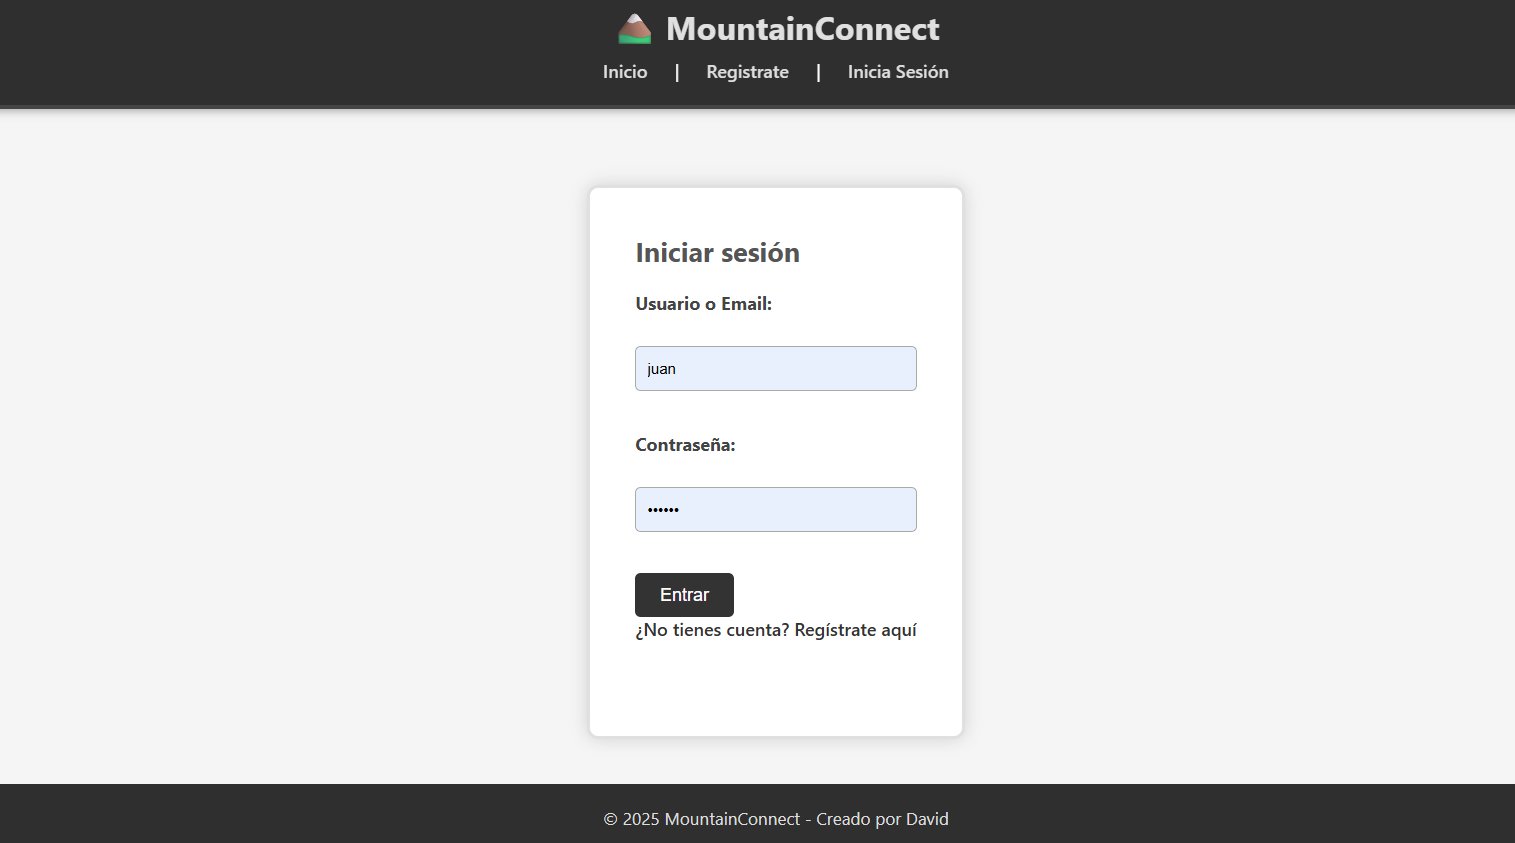
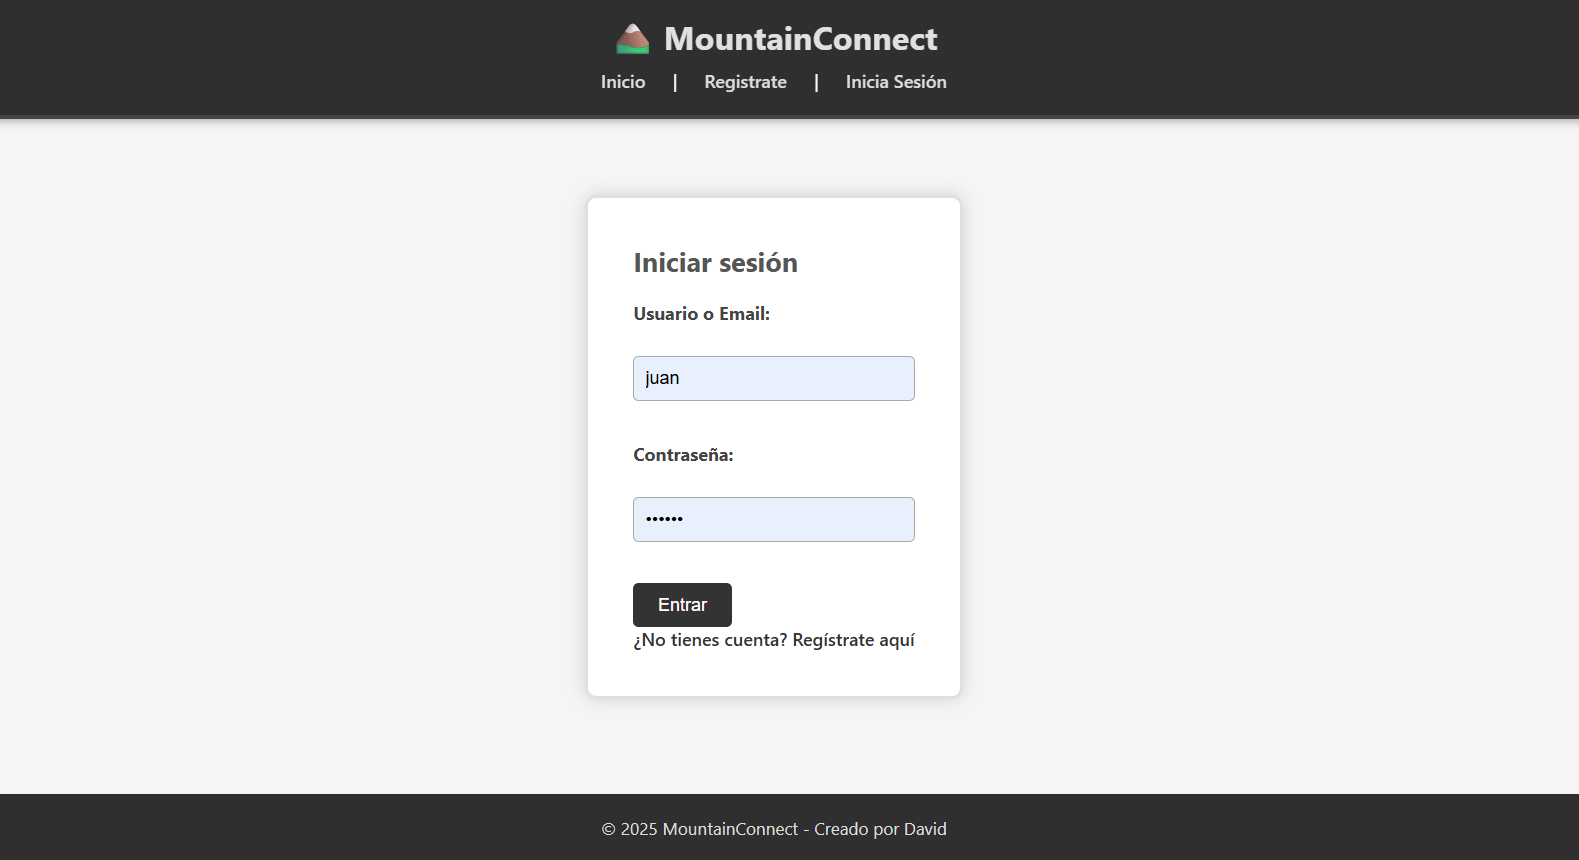
PROYECTO TERMINADO

diff --git a/assets/css/style.css b/assets/css/style.css
@@ -81,7 +81,8 @@ body {
 }
 
 main, section {
-  flex: 1;
+  /*flex: 1;*/
+  width: fit-content;
   max-width: 900px;
   margin: 40px auto;
   background-color: #fff;
@@ -89,9 +90,6 @@ main, section {
   border-radius: 10px;
   box-shadow: 0 0 15px rgba(0,0,0,0.15);
   border: 3px solid #e0e0e0;
-  justify-content: flex-end;
-  height: 100vh;
-  flex-direction: column; 
 }
 
 /* ==============================
@@ -291,16 +289,6 @@ a.boton-enlace:hover {
   margin: 4px 0;
 }
 
-/* =====================================
-   PERFIL DE USUARIO
-   ===================================== */
-
-.profile-logout {
-  display: flex;
-  flex-direction: column; /* organiza en columna */
-  justify-content: flex-end; /* empuja el contenido hacia abajo */
-  height: 70%; 
-}
 
 /* =====================================
    NOMBRE USUARIO EN HEADER

diff --git a/public/index.php b/public/index.php
@@ -9,6 +9,8 @@ include("../includes/header.php");
 
     <?php if (isset($_SESSION["usuario"])): ?>
         <p>Hola, <strong><?php echo htmlspecialchars($_SESSION["usuario"]["username"]); ?></strong> 👋</p>
+        <p>Enhorabuena ahora puedes ver las <a href="/mountain-connect/public/routes/list.php">rutas</a> de los compañeros <br>También puedes <a href="/mountain-connect/public/routes/create.php">crear</a> las tuyas propias</p>
+        <br>
         <p>Puedes ir a tu <a href="/mountain-connect/public/profile.php">perfil</a> o <a href="/mountain-connect/public/logout.php">cerrar sesión</a>.</p>
     <?php else: ?>
         <p>Bienvenido visitante 👋</p>

diff --git a/public/profile.php b/public/profile.php
@@ -9,8 +9,9 @@ $usuario = $_SESSION["usuario"];
 
 <main id="contenido-principal">
     <h2>Perfil de <?php echo htmlspecialchars($usuario["username"]); ?></h2>
-    <p><strong>Email:</strong> <?php echo htmlspecialchars($usuario["email"]); ?></p>
     <p>Bienvenido a tu perfil, <?php echo htmlspecialchars($usuario["username"]); ?> 👋</p>
+    <p><strong>Email:</strong> <?php echo htmlspecialchars($usuario["email"]); ?></p>
+    <br><br><br>
 
     <p id="profile" class="profile-logout">
         <a href="/mountain-connect/public/logout.php">Cerrar sesión</a>

diff --git a/README.md b/README.md
@@ -142,69 +142,18 @@ Inicio de Sesión
 ![Iniciar Sesion](README/iniciar-sesion.png)
 
 Perfil de usuario
+![Perfil](README/perfil.png)
 
-CRUD de rutas
+Crear rutas
+![Crear Ruta](README/crear-ruta.png)
+
+Ver rutas
+![Lista de Rutas](README/lista-rutas.png)
 
 
-(Sustituye los enlaces con tus capturas reales antes de subir a GitHub)
-
-🚀 Subir Proyecto a GitHub
-Inicializa Git en tu proyecto:
-
-bash
-Copiar código
-git init
-git remote add origin https://github.com/dav516/mountain-connect.git
-Crear .gitignore para ignorar archivos innecesarios:
-
-bash
-Copiar código
-/vendor/
-/node_modules/
-*.log
-*.env
-/uploads/
-Agrega y haz commit:
-
-bash
-Copiar código
-git add .
-git commit -m "Primer commit: estructura inicial del proyecto MountainConnect"
-Subir al repositorio remoto:
-
-bash
-Copiar código
-git branch -M main
-git push -u origin main
-⚠ Si aparece el warning LF will be replaced by CRLF, configura Git:
-
-bash
-Copiar código
-git config --global core.autocrlf true
-📝 Criterios de Evaluación
-Correcta organización de carpetas y archivos
-
-Formularios funcionales con validación
-
-Gestión de sesiones (login/logout)
-
-Subida de archivos validada
-
-Código limpio y reutilizable
-
-Mensajes claros y experiencia de usuario adecuada
-
-🤝 Autor
+## 🤝 Autor
 David Ultra Rey – dav516
 
-📜 Licencia
+## 📜 Licencia
 Este proyecto es para fines educativos. No tiene licencia comercial.
 
-yaml
-Copiar código
-
----
-
-Si quieres, puedo también prepararte un **.gitignore definitivo adaptado a MountainConnect** listo para copiar y pegar, para que no subas fotos ni archivos sensibles a GitHub. Esto dejaría tu repositorio completamente limpio.  
-
-¿Quieres que haga eso también?
